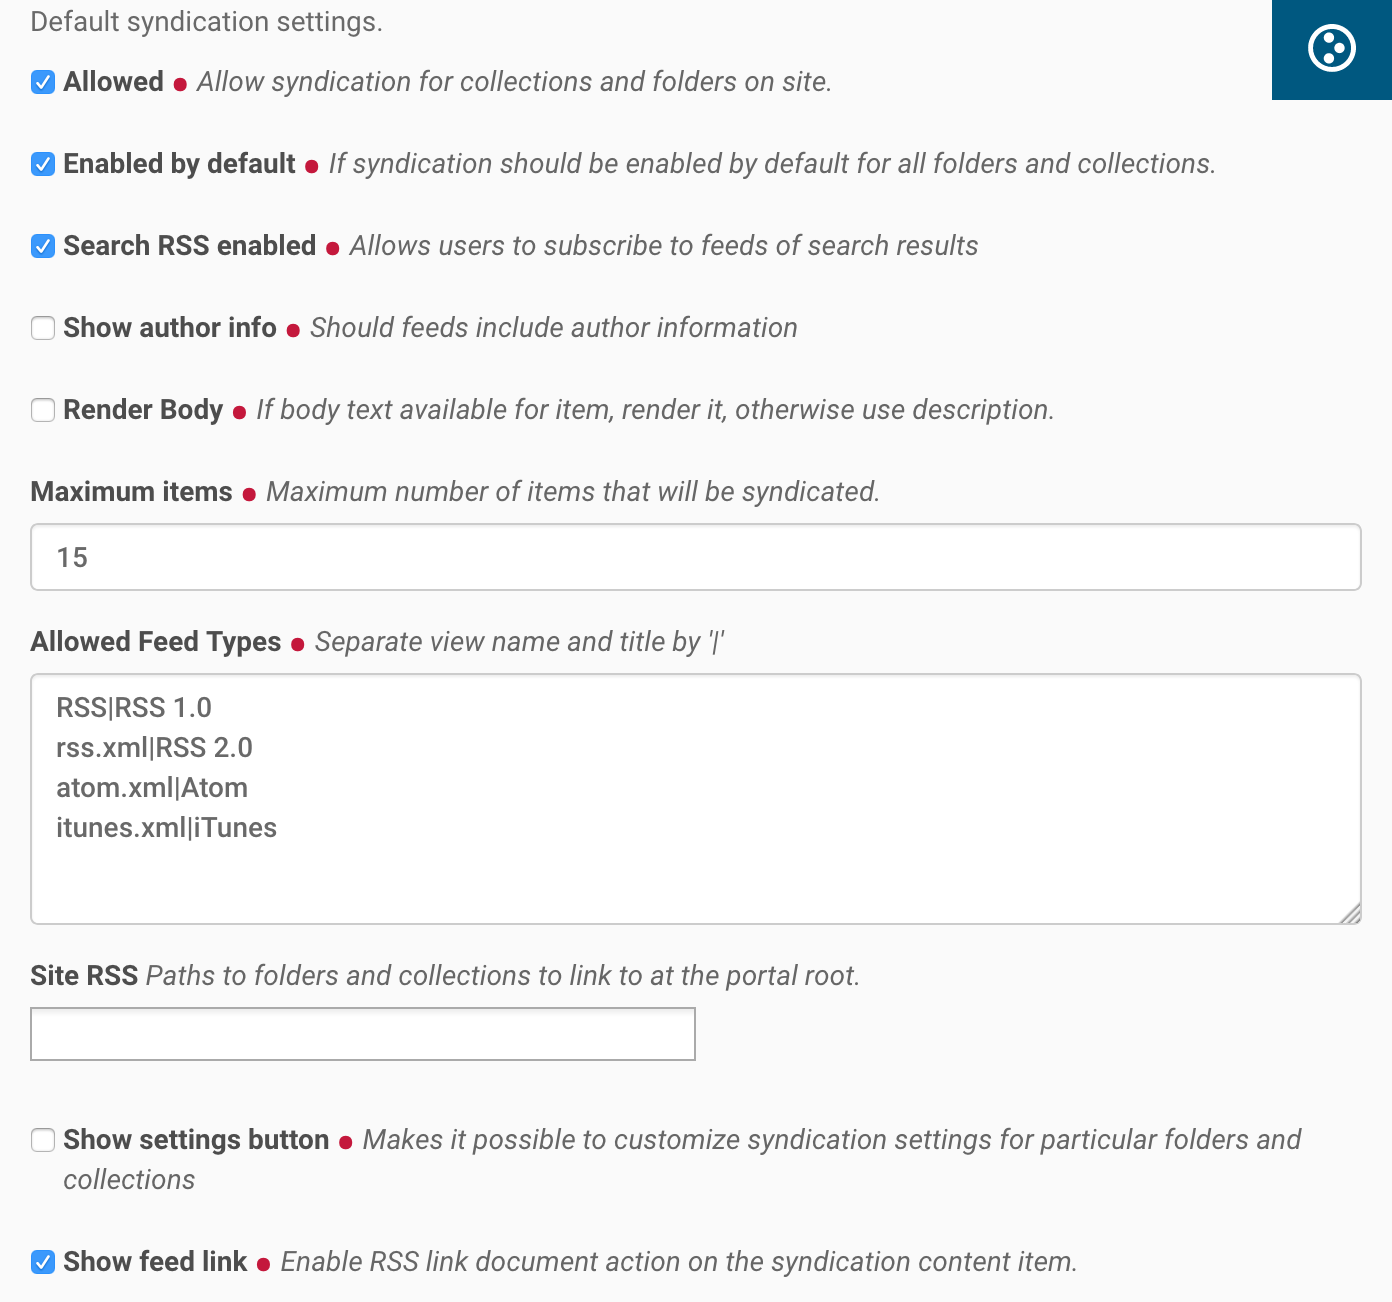
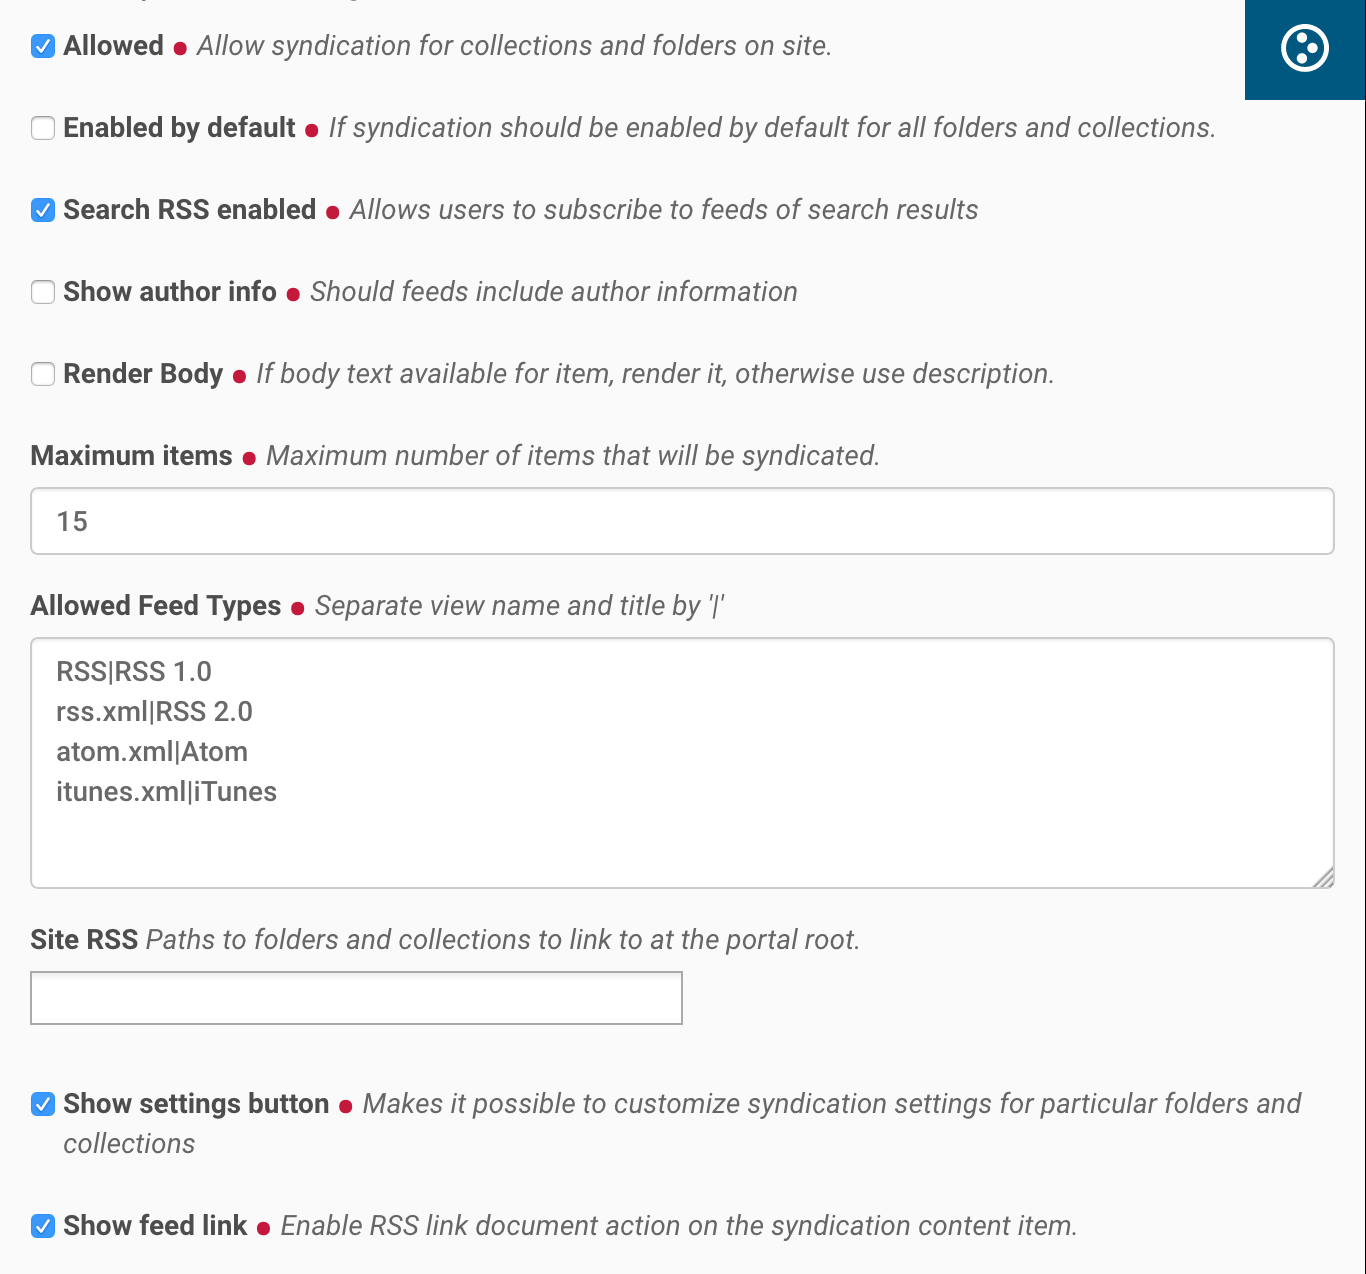
updated doc based on suggestions

diff --git a/docs/Enable_RSS_feed_on_Plone.rst b/docs/Enable_RSS_feed_on_Plone.rst
@@ -34,8 +34,8 @@ Select Syndication under General tab.
 Select following and save:
 
  1. `Allowed`
- 2. `Enabled by default`
- 3. `Search RSS enabled`
+ 2. `Search RSS enabled`
+ 3. `Show settings button`
  4. `Show feed link`
  5. Save
 
@@ -58,54 +58,60 @@ Add new collection
 
 *Step 3*
 
-Update ``Title`` to "Your site name - RSS feed" Or any other suitable name
+Configuration explained below will publish all available content, however it can be tweaked based on user requirements.
 
-.. image:: _static/images/Enable_Rss_Feed/creating_collection/Step3.png
+1. Update ``Title`` to "Your site name - RSS feed" Or any other suitable name.
 
-*Step 4*
+2. For ``Select Criteria``, choose `Review State as Published` (Otherwise unpublished items will show in your feed
+and people will get an error clicking on that URL)
 
-Following settings should be tweaked based on user requirement, however to publish all content do following:
-
-1. For ``Select Criteria``, choose `Review State as Published`.
-
-2. For ``Sort On`` choose `Effective date` in reversed order
-
-3. Save
+3. For ``Sort On`` choose `Effective date` in reversed order
 
 .. image:: _static/images/Enable_Rss_Feed/creating_collection/Step4.png
 
-*Step 5*
+*Step 4*
 
 On Settings tab
 
  1. Choose ``Exclude from navigation`` (to make it disappear from navigation tree)
 
- 2. Change ``Short Name or item id`` to "site-feed" or any other suitable name
+ 2. Change ``Short Name`` to "site-feed" or any other suitable name
 
  3. Save
 
 .. image:: _static/images/Enable_Rss_Feed/creating_collection/Step5.png
 
 
-
-*Step 6*
+*Step 5*
 
 Publish collection after the content seems to be right, using the workflow menu on the collection content item.
 
 .. image:: _static/images/Enable_Rss_Feed/creating_collection/Step6.png
 
-*Step 7*
-
-You can now preview the content of RSS feed on View tab.
-
-.. image:: _static/images/Enable_Rss_Feed/creating_collection/Step7.png
-
 **Now your RSS feed is ready which can be tested by copy-pasting RSS URL from the site action \
 to your RSS Reader, like feeder.co or Mozilla Reader**
 
 Like in my case the URL to the RSS feed is- ``http://localhost:8080/Plone/site-feed/RSS`` \
-which is something like ``/path/to/collection/RSS``
+which is something like ``/path_to_parent_collection/collection_short-name/RSS``
 
 .. image:: _static/images/Enable_Rss_Feed/creating_collection/Step8.png
+
+*Step 6*
+
+To show feed icons on Folders, you can enable it in syndication tab as shown below.
+`However, many sites do not want to show those feed icons`
+
+.. image:: _static/images/Enable_Rss_Feed/creating_collection/syndication_tab.png
+
+.. image:: _static/images/Enable_Rss_Feed/creating_collection/Enable_feed_icon.png
+
+This is how feed icon on folders look like -
+
+.. image:: _static/images/Enable_Rss_Feed/creating_collection/feed_icon_on_folder.png
+
+To publish feed of a particular folder use RSS URL associated to that folder, which is something like -
+``/path_to_parent_folder/folder_short-name/RSS``
+
+Like for given folder(`Events`), it will be ``http://localhost:8080/Plone/events/RSS``
 
 
